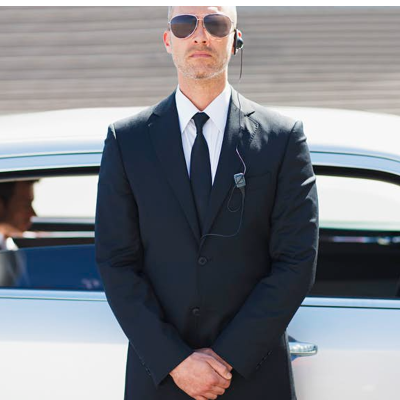
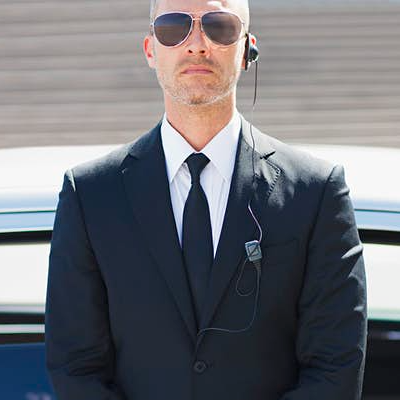
added images to Gallery page

diff --git a/gallery.html b/gallery.html
@@ -32,6 +32,16 @@
 
     <main>
         <article>
+            <div class="image"><img src="Gallery-Images/bodyguard1.png" alt="bodyguard1"></div>
+            <div class="image"><img src="Gallery-Images/bodyguard2.jpg" alt="bodyguard2"></div>
+            <div class="image"><img src="Gallery-Images/bodyguard3.jpg" alt="bodyguard3"></div>
+            <div class="image"><img src="Gallery-Images/bodyguard7.png" alt="bodyguard7"></div>
+            <!-- <div class="image"><img src="Gallery-Images/bodyguard5.jpg" alt="bodyguard5"></div> -->
+            <div class="image"><img src="Gallery-Images/bodyguard6.png" alt="bodyguard6"></div>
+            <div class="image"><img src="Gallery-Images/bodyguard8.png" alt="bodyguard8"></div>
+            <div class="image"><img src="Gallery-Images/bodyguard4.png" alt="bodyguard4"></div>
+            <div class="image"><img src="Gallery-Images/bodyguard9.png" alt="bodyguard9"></div>
+            <div class="image"><img src="Gallery-Images/bodyguard10.png" alt="bodyguard10"></div>
         </article>
     </main>
 

diff --git a/gallery.css b/gallery.css
@@ -136,6 +136,12 @@ article{
     flex: 4;
     background-color: #CB260D;
     border-radius: 10px;
+    display: flex;
+    flex-wrap: wrap;
+    justify-content: space-evenly;
+    gap: 30px;
+    padding-top: 20px;
+    padding-bottom: 20px;
 }
 
 
@@ -174,3 +180,7 @@ p.footer{
     text-align: center;
 }
 
+img{
+    border-radius: 10px;
+    border: 2px black solid;
+}
